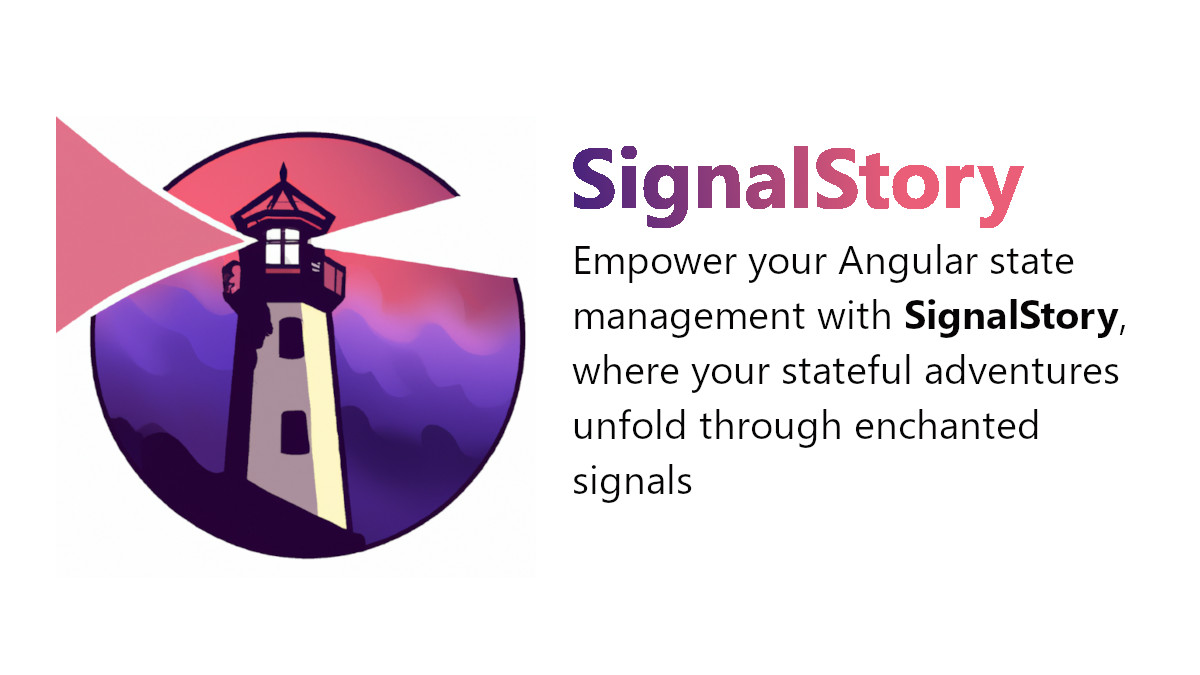
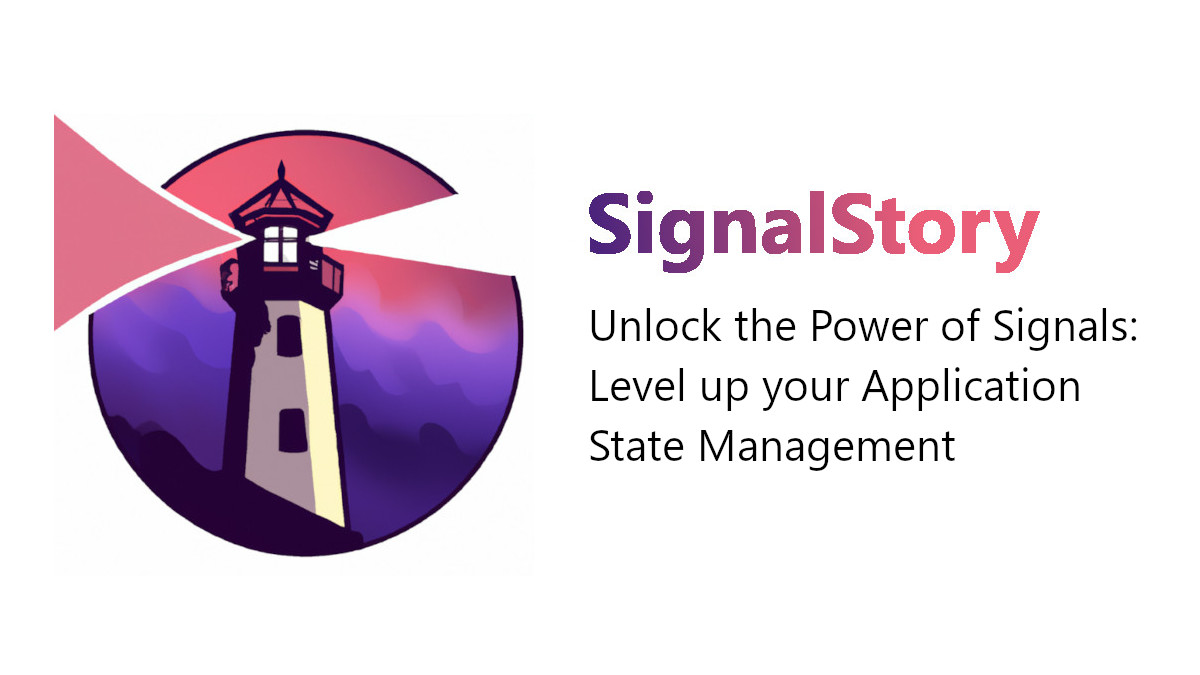
Improved landingpage, started to switch to some avif

diff --git a/docs/src/pages/index.js b/docs/src/pages/index.js
@@ -11,7 +11,7 @@ function HomepageHeader() {
   return (
     <header className={clsx('hero hero--primary', styles.heroBanner)}>
        <div className='hero-caption'>
-        <img id="hero-mobile-logo" src={useBaseUrl('/img/signalstory_no_background.png')}/>
+        <img id="hero-mobile-logo" src={useBaseUrl('/img/signalstory_no_background_mobile.avif')}/>
             <h1 className="hero__title">
               <span className='big fluid'>signalstory
               </span> <span className='small'>| Empower Your Angular State Management</span></h1>

diff --git a/docs/docusaurus.config.js b/docs/docusaurus.config.js
@@ -48,7 +48,7 @@ const config = {
         title: 'signalstory',
         logo: {
           alt: 'signalstory',
-          src: 'img/signalstory.png',
+          src: 'img/signalstory_small.avif',
         },
         items: [
           {

diff --git a/docs/src/css/custom.css b/docs/src/css/custom.css
@@ -132,7 +132,7 @@
   }
 
   .hero-caption img {
-    width: 250px;
+    width: 220px;
   }
 
   .hero-caption h1 {
